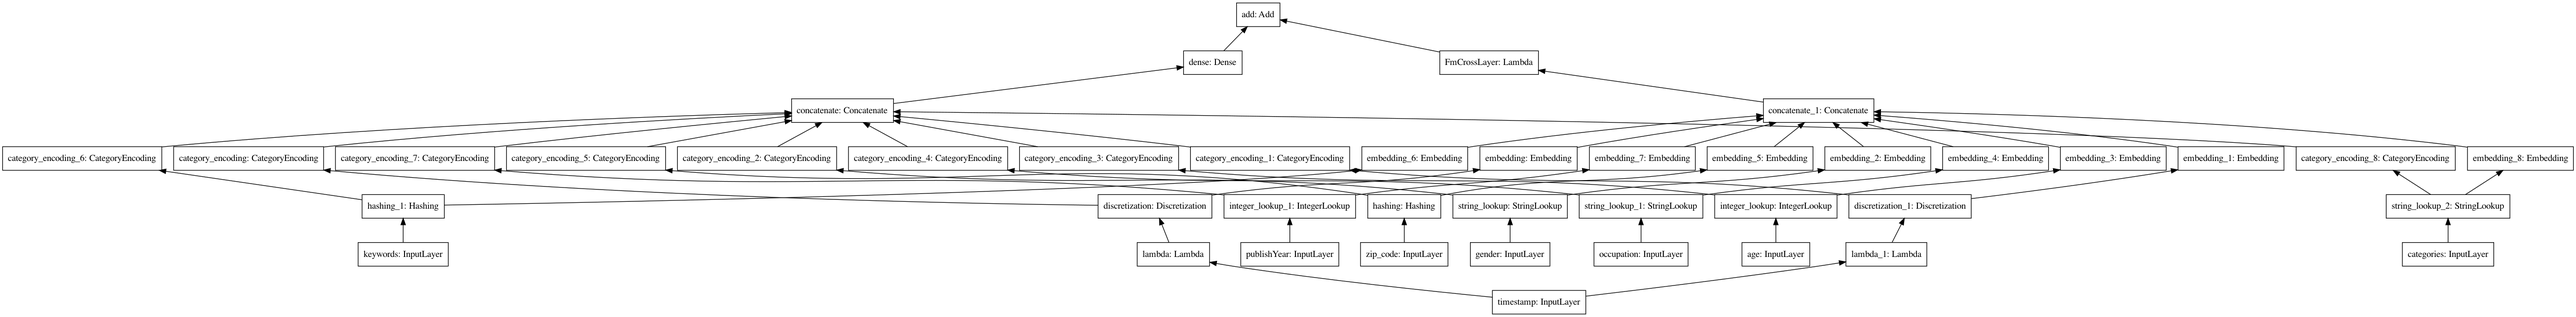
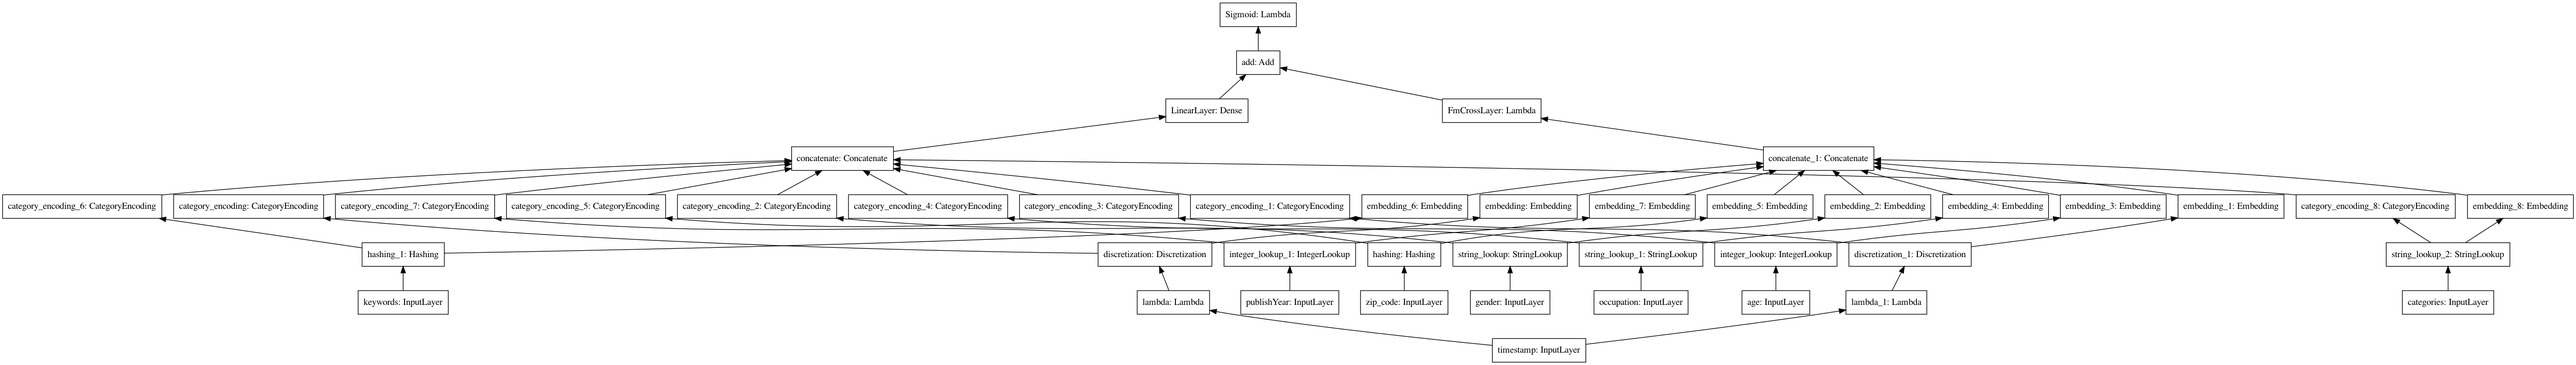
update

diff --git a/data/movieLens_graph.py b/data/movieLens_graph.py
@@ -1,0 +1,116 @@
+import tensorflow as tf
+import os
+import random
+import numpy as np
+from collections import defaultdict
+from data.movieLens import load_rating_data, load_movie_data
+
+
+def alias_sample(neighbors):
+    n = len(neighbors)
+    U = np.array([prob for _, prob in neighbors]) * n
+    K = [i for i in range(n)]
+    over_full, under_full = [], []
+    for i, U_i in enumerate(U):
+        if U_i > 1:
+            over_full.append(i)
+        elif U_i < 1:
+            under_full.append(i)
+    while len(over_full) and len(under_full):
+        i, j = over_full.pop(), under_full.pop()
+        K[j] = i
+        U[i] = U[i] - (1 - U[j])
+        if U[i] > 1:
+            over_full.append(i)
+        elif U[i] < 1:
+            under_full.append(i)
+    id = np.random.randint(n)
+    if U[id] > np.random.uniform(0, 1):
+        return neighbors[id][0]
+    else:
+        return neighbors[K[id]][0]
+
+
+def load_pair_movies_graph(rating_max_gap_second, is_direct: bool = False):
+    pair_movies = defaultdict(lambda: defaultdict(int))
+    rating_data = load_rating_data()
+    for ratings in rating_data.values():
+        sorted_ratings = sorted(list(ratings.items()), key=lambda item: item[1]["timestamp"])
+        for i in range(len(sorted_ratings)):
+            if i == 0:
+                continue
+            front_movie_id, front_movie_timestamp = sorted_ratings[i-1][0], sorted_ratings[i-1][1]["timestamp"]
+            after_movie_id, after_movie_timestamp = sorted_ratings[i][0], sorted_ratings[i][1]["timestamp"]
+            if after_movie_timestamp - front_movie_timestamp <= rating_max_gap_second:
+                pair_movies[front_movie_id][after_movie_id] += 1
+                if not is_direct:
+                    pair_movies[after_movie_id][front_movie_id] += 1
+    return pair_movies
+
+
+def node2vec(num_walks, walk_length, p, q, rating_max_gap_second, is_direct: bool = False):
+    random_walks = []
+    pairs = load_pair_movies_graph(rating_max_gap_second, is_direct)
+    for _ in range(num_walks):
+        for node_v in pairs.keys():
+            walks = [node_v]
+            for _ in range(walk_length):
+                if len(walks) == 1:
+                    neighbors = pairs[node_v]
+                elif node_v in pairs:
+                    node_t = walks[-2]
+                    zero_node = {node_t: pairs[node_v][node_t] / p} if node_t in pairs[node_v] else {}
+                    one_nodes = {node: weight for node, weight in pairs[node_t].items() if node in pairs[node_v]}
+                    two_nodes = {node: weight / q for node, weight in pairs[node_v].items()
+                                 if node not in zero_node and node not in one_nodes}
+                    neighbors = {**zero_node, **one_nodes, **two_nodes}
+                else:
+                    break
+                value_sum = sum(neighbors.values())
+                sorted_neighbors = sorted([(key, value / value_sum) for key, value in neighbors.items()],
+                                          key=lambda item: item[1], reverse=True)
+                walks.append(alias_sample(sorted_neighbors))
+                node_v = walks[-1]
+            random_walks.append(walks)
+    return random_walks
+
+
+def generate_train_data(output_file, window_size, num_walks, walk_length, p, q, rating_max_gap_second,
+                        is_direct: bool = False):
+    random_walks = node2vec(num_walks, walk_length, p, q, rating_max_gap_second, is_direct)
+    movie_data = load_movie_data()
+    records = []
+    for walk in random_walks:
+        for i in range(window_size // 2, len(walk) - window_size // 2):
+            neighbors = []
+            for j in range(window_size // 2):
+                if i - j - 1 >= 0:
+                    neighbors.append(walk[i - j - 1])
+                if i + j + 1 < len(walk):
+                    neighbors.append(walk[i + j + 1])
+            feature = {
+                "movie_id": tf.train.Feature(bytes_list=tf.train.BytesList(value=[walk[i].encode('utf-8')]))
+            }
+            if walk[i] in movie_data:
+                if "keywords" in movie_data[walk[i]]:
+                    feature["keywords"] = tf.train.Feature(bytes_list=tf.train.BytesList(
+                        value=list(map(lambda x: x.encode("utf-8"), movie_data["keywords"]))))
+                if "publishYear" in movie_data[walk[i]]:
+                    feature["publishYear"] = tf.train.Feature(int64_list=tf.train.Int64List(
+                        value=[movie_data[walk[i]]["publishYear"]]))
+                if "categories" in movie_data[walk[i]]:
+                    feature["categories"] = tf.train.Feature(bytes_list=tf.train.BytesList(
+                        value=list(map(lambda x: x.encode("utf-8"), movie_data[walk[i]]["categories"]))))
+            feature["labels"] = tf.train.Feature(bytes_list=tf.train.BytesList(
+                value=list(map(lambda x: x.encode("utf-8"), neighbors))))
+            example = tf.train.Example(features=tf.train.Features(feature=feature)).SerializeToString()
+            records.append(example)
+    random.shuffle(records)
+    with tf.io.TFRecordWriter(output_file) as f:
+        for record in records:
+            f.write(record)
+
+
+if __name__ == "__main__":
+    train_file = os.path.abspath(__file__).replace("data/movieLens_graph.py", "data/movieLens/ml-1m/graph.tfrecord")
+    generate_train_data(train_file, window_size=5, num_walks=10, walk_length=20, p=1, q=1, rating_max_gap_second=int)

diff --git a/example/rank/ml/fm.py b/example/rank/ml/fm.py
@@ -57,7 +57,7 @@ def fm_model(embedding_size):
         timestamp_hour_lr_layer, timestamp_week_lr_layer, gender_lr_layer, age_lr_layer, occupation_lr_layer,
         zip_code_lr_layer, keywords_lr_layer, publish_year_lr_layer, categories_lr_layer
     ])
-    lr_input_layer = tf.keras.layers.Dense(units=1)(lr_input_layer)
+    lr_input_layer = tf.keras.layers.Dense(units=1, name="LinearLayer")(lr_input_layer)
 
     # fm
     timestamp_hour_fm_layer = tf.keras.layers.Embedding(input_dim=24, output_dim=embedding_size)(timestamp_hour_layer)
@@ -83,6 +83,7 @@ def fm_model(embedding_size):
     fm_input_layer = tf.keras.layers.Lambda(function=fm_cross, name="FmCrossLayer")(all_fm_embeddings_layer)
 
     predict = tf.keras.layers.Add()(inputs=[lr_input_layer, fm_input_layer])
+    predict = tf.keras.layers.Lambda(function=lambda tensor: tf.nn.sigmoid(tensor), name="Sigmoid")(predict)
 
     model = tf.keras.models.Model(inputs=[
         timestamp, gender, age, occupation, zip_code, keywords, publish_year, categories
